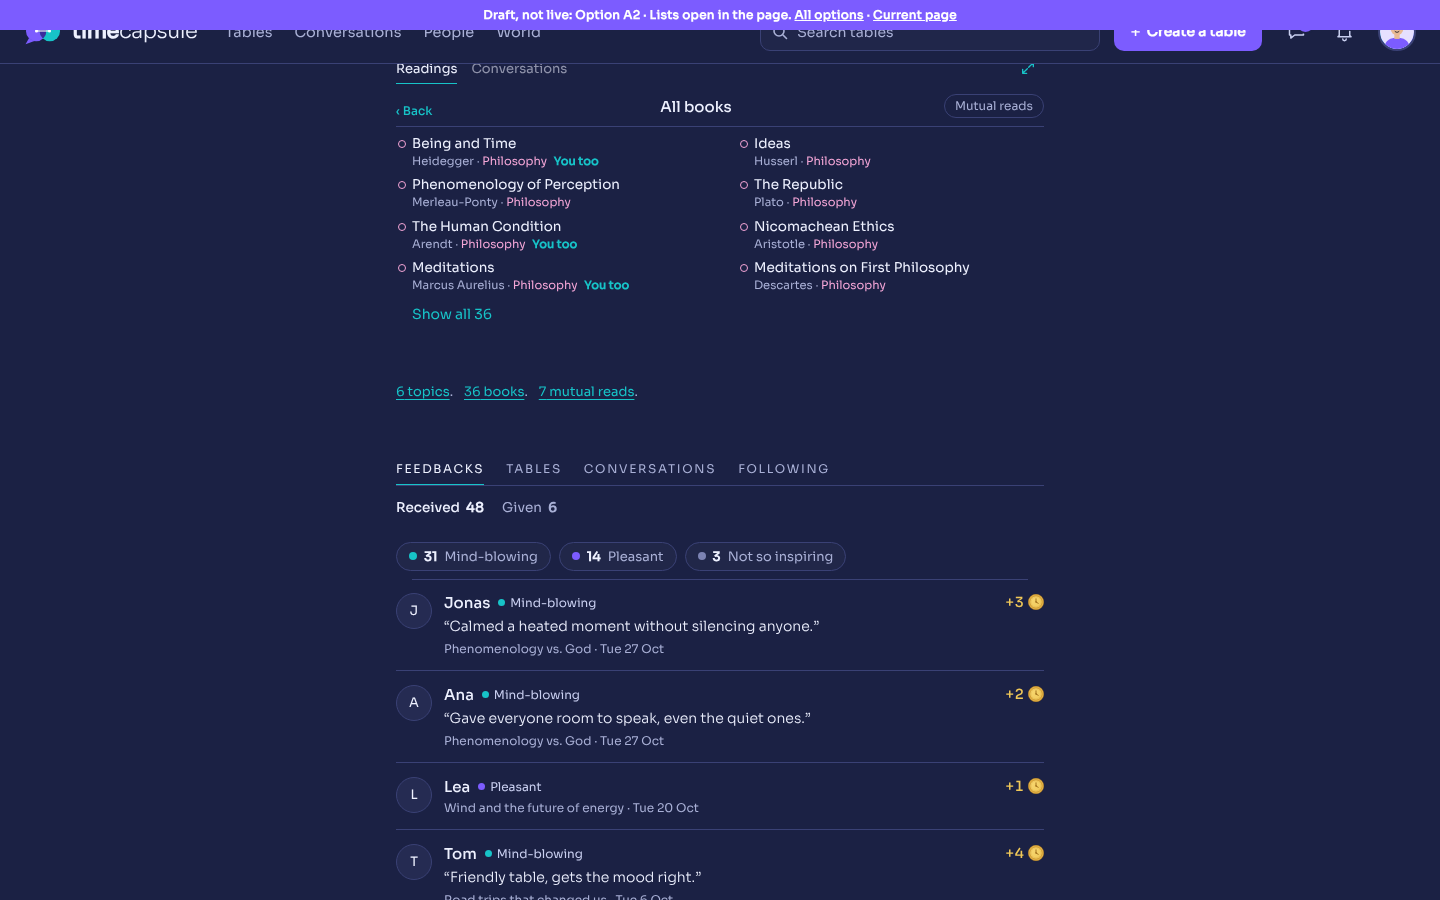
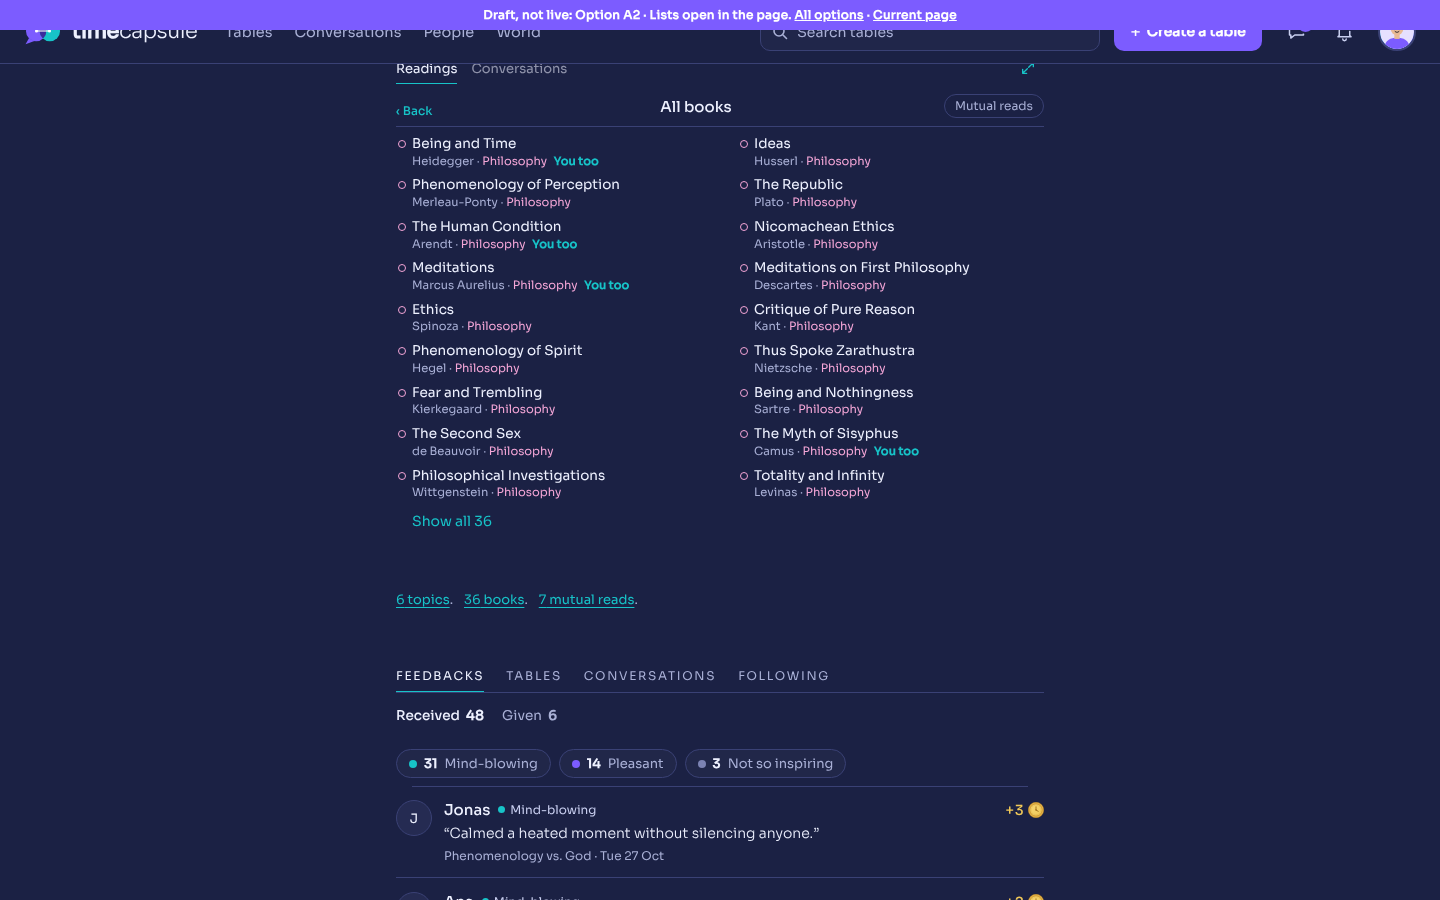
Profile option A2: universe lists show 9 rows (18 on wide screens)
Claude-Session: https://claude.ai/code/session_018eq6NgwUiJJnwPF1moeBy1

diff --git a/profile-options/option-a2.html b/profile-options/option-a2.html
@@ -730,12 +730,12 @@ body .lbtabs .mix:has(.filt:not([hidden])){display:none}
 .ulay.pg:not([hidden]){position:relative!important;inset:auto!important;top:auto!important;bottom:auto!important;display:block!important;padding-top:6px!important}
 .ulay.pg .pl{overflow:visible!important;max-height:none!important;height:auto!important;-webkit-mask-image:none!important;mask-image:none!important;padding-bottom:6px}
 .ulay.pg .ph{position:static!important}
-.ulay.pg:not(.opt-all) .pl>li:nth-child(n+9){display:none!important}
+@media(max-width:699px){.ulay.pg:not(.opt-all) .pl>li:nth-child(n+10){display:none!important}}
 .opt-allbtn{all:unset;cursor:pointer;display:block;margin:6px 0 4px 16px;color:var(--teal);font-size:14px}
 .opt-allbtn:focus-visible{outline:2px solid var(--teal);outline-offset:3px}
 @media(min-width:700px){
 .ulay.pg .pl{display:grid!important;grid-template-columns:1fr 1fr;column-gap:36px;align-items:start}
-.ulay.pg:not(.opt-all) .pl>li:nth-child(n+9){display:none!important}
+.ulay.pg:not(.opt-all) .pl>li:nth-child(n+19){display:none!important}
 }
 </style></head><body><div class="optbar">Draft, not live: Option A2 · Lists open in the page. <a href="index.html" style="color:#fff">All options</a> · <a href="../profile/timecapsule-profile.html" style="color:#fff">Current page</a></div>
 <svg width="0" height="0" style="position:absolute" aria-hidden="true"><defs><linearGradient id="cg" x1="0" y1="0" x2="1" y2="1"><stop offset="0" stop-color="#F9DA74"/><stop offset="1" stop-color="#F0C858"/></linearGradient><symbol id="coin" viewBox="0 0 40 40"><circle cx="20" cy="20" r="19.2" fill="#E2AC3C" stroke="#B07A1C" stroke-width="1.4"/><circle cx="20" cy="20" r="17.6" fill="none" stroke="#FFE38A" stroke-width="1.6" stroke-dasharray="1 1.4"/><circle cx="20" cy="20" r="15.2" fill="url(#cg)" stroke="#B07A1C" stroke-width="1.1"/><circle cx="20" cy="20" r="12.4" fill="none" stroke="#C98F22" stroke-opacity=".6" stroke-width=".9"/><path d="M20 12V20L25.5 23.2" fill="none" stroke="#9A6614" stroke-width="2.2" stroke-linecap="round" stroke-linejoin="round"/><circle cx="20" cy="20" r="1.8" fill="#9A6614"/></symbol></defs></svg>
@@ -2173,7 +2173,7 @@ new MutationObserver(function(){var open=!u.hidden&&u.classList.contains('pg');i
 (function(){var u=document.getElementById('ulay');if(!u)return;
 var f=function(){mo.disconnect();var pl=u.querySelector('.pl'),btn=u.querySelector('.opt-allbtn');
  var n=pl?pl.querySelectorAll(':scope>li').length:0;
- if(pl&&n>8&&!u.classList.contains('opt-all')){if(!btn){btn=document.createElement('button');btn.type='button';btn.className='opt-allbtn';btn.onclick=function(){u.classList.add('opt-all');btn.remove()};}btn.textContent='Show all '+n;pl.after(btn)}else if(btn)btn.remove();
+ var lim=matchMedia('(min-width:700px)').matches?18:9;if(pl&&n>lim&&!u.classList.contains('opt-all')){if(!btn){btn=document.createElement('button');btn.type='button';btn.className='opt-allbtn';btn.onclick=function(){u.classList.add('opt-all');btn.remove()};}btn.textContent='Show all '+n;pl.after(btn)}else if(btn)btn.remove();
  mo.observe(u,{childList:true,subtree:true})};
 var mo=new MutationObserver(f);
 new MutationObserver(function(){u.classList.remove('opt-all');f()}).observe(u,{attributes:true,attributeFilter:['hidden']});

diff --git a/profile-options/a2.js b/profile-options/a2.js
@@ -3,7 +3,7 @@ new MutationObserver(function(){var open=!u.hidden&&u.classList.contains('pg');i
 (function(){var u=document.getElementById('ulay');if(!u)return;
 var f=function(){mo.disconnect();var pl=u.querySelector('.pl'),btn=u.querySelector('.opt-allbtn');
  var n=pl?pl.querySelectorAll(':scope>li').length:0;
- if(pl&&n>8&&!u.classList.contains('opt-all')){if(!btn){btn=document.createElement('button');btn.type='button';btn.className='opt-allbtn';btn.onclick=function(){u.classList.add('opt-all');btn.remove()};}btn.textContent='Show all '+n;pl.after(btn)}else if(btn)btn.remove();
+ var lim=matchMedia('(min-width:700px)').matches?18:9;if(pl&&n>lim&&!u.classList.contains('opt-all')){if(!btn){btn=document.createElement('button');btn.type='button';btn.className='opt-allbtn';btn.onclick=function(){u.classList.add('opt-all');btn.remove()};}btn.textContent='Show all '+n;pl.after(btn)}else if(btn)btn.remove();
  mo.observe(u,{childList:true,subtree:true})};
 var mo=new MutationObserver(f);
 new MutationObserver(function(){u.classList.remove('opt-all');f()}).observe(u,{attributes:true,attributeFilter:['hidden']});

diff --git a/profile-options/a2.css b/profile-options/a2.css
@@ -4,10 +4,10 @@
 .ulay.pg:not([hidden]){position:relative!important;inset:auto!important;top:auto!important;bottom:auto!important;display:block!important;padding-top:6px!important}
 .ulay.pg .pl{overflow:visible!important;max-height:none!important;height:auto!important;-webkit-mask-image:none!important;mask-image:none!important;padding-bottom:6px}
 .ulay.pg .ph{position:static!important}
-.ulay.pg:not(.opt-all) .pl>li:nth-child(n+9){display:none!important}
+@media(max-width:699px){.ulay.pg:not(.opt-all) .pl>li:nth-child(n+10){display:none!important}}
 .opt-allbtn{all:unset;cursor:pointer;display:block;margin:6px 0 4px 16px;color:var(--teal);font-size:14px}
 .opt-allbtn:focus-visible{outline:2px solid var(--teal);outline-offset:3px}
 @media(min-width:700px){
 .ulay.pg .pl{display:grid!important;grid-template-columns:1fr 1fr;column-gap:36px;align-items:start}
-.ulay.pg:not(.opt-all) .pl>li:nth-child(n+9){display:none!important}
+.ulay.pg:not(.opt-all) .pl>li:nth-child(n+19){display:none!important}
 }
